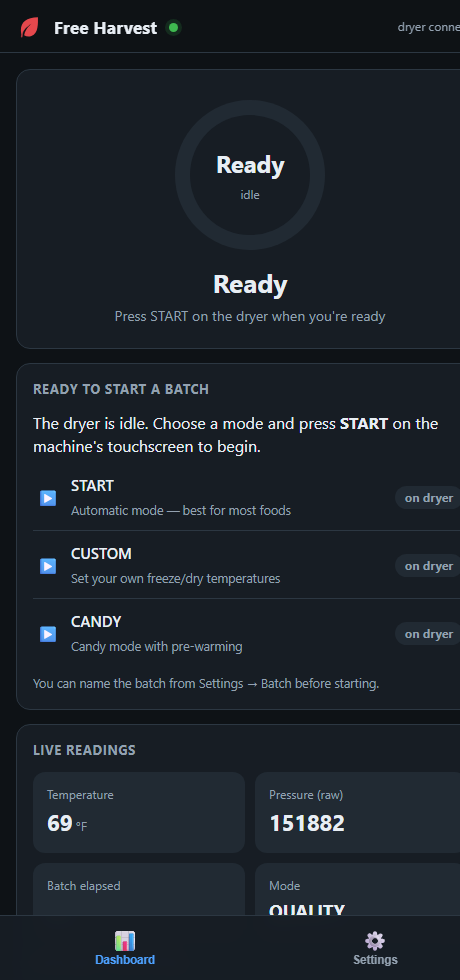
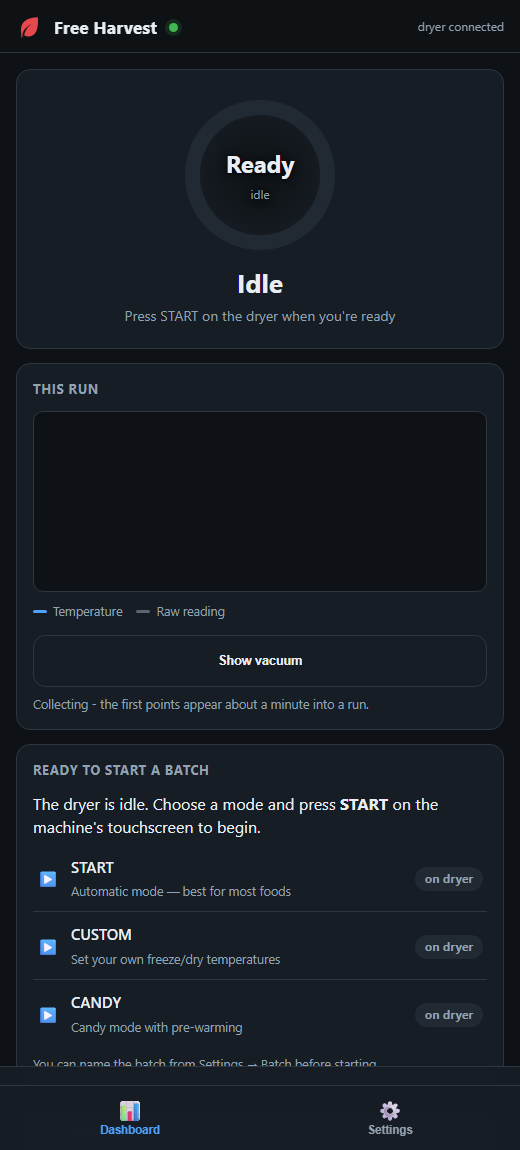
Regenerate README screenshots for v0.3.4
The README was still showing the July 30 pre-redesign captures - no ring
artwork, no facts strip, no trend graph. A separate dash-*.png set had been
generated in August but never wired in, so it was dead weight.

Captured headlessly from the real index.html against synthetic state, so each
phase can be shown deterministically rather than waiting for a 22h cycle to
reach it.

The harness mirrors hr_trend.c's deadband and directional hysteresis rather than
plotting the underlying curve directly. That matters: drawing `smooth` as the
true exponential would have produced a flawless line that misrepresents what the
firmware does. The screenshots now show the real behaviour - raw flapping between
whole degrees, smoothed stepping - including the 2F granularity in the cold range
that the current deadband costs us.

- dashboard-running/idle/freezing/drying/finaldry: all show the trend graph
- settings-usb: the USB link diagnostics panel (new in this release)
- settings, settings-mqtt, settings-about: refreshed, About now reads v0.3.4
- Phase table changed from Idle/Preparing/Freezing/Drying to
  Idle/Freezing/Drying/Final dry, matching the cycle we have actually decoded
- settings-about is now referenced from the flash instructions, where "check the
  version actually changed" is the check that catches a missing
  ota_data_initial.bin
- Troubleshooting now leads with the USB panel, since "dryer not seen" is the
  question it exists to answer
[…]

diff --git a/README.md b/README.md
@@ -117,6 +117,11 @@ Replace `COM7` with your port (`/dev/ttyUSB0` on Linux, `/dev/cu.usbserial-*` on
 > **Settings → About** after flashing: if the version isn't the one you
 > installed, that's what happened.
 
+<p align="center">
+  <img src="docs/img/settings-about.png" width="330"
+       alt="About screen showing the installed version">
+</p>
+
 ### Option B — build it yourself
 
 See [Building from source](#building-from-source).
@@ -169,10 +174,10 @@ green and readings appear.
 Browse to the adapter's address from any device on your network. The dashboard shows
 whatever the dryer is doing right now.
 
-| Idle | Preparing | Freezing | Drying |
+| Idle | Freezing | Drying | Final dry |
 |---|---|---|---|
-| ![Idle](docs/img/dashboard-idle.png) | ![Preparing](docs/img/dashboard-preparing.png) | ![Freezing](docs/img/dashboard-freezing.png) | ![Drying](docs/img/dashboard-drying.png) |
-| Press **START** on the machine | 15-min pre-cool, load your trays | % frozen + estimated time to 100% | Live vacuum in microns, phase timer |
+| ![Idle](docs/img/dashboard-idle.png) | ![Freezing](docs/img/dashboard-freezing.png) | ![Drying](docs/img/dashboard-drying.png) | ![Final dry](docs/img/dashboard-finaldry.png) |
+| Press **START** on the machine | % frozen + estimated time to 100% | Live vacuum in microns, phase timer | The long stage — 12h+ is normal, vacuum at its deepest |
 
 The **phase card** below the dial always tells you what's happening and what comes
 next, quoting the owner's manual — including the drain-valve steps that are easy to
@@ -274,7 +279,15 @@ problem.
 
 ## Troubleshooting
 
-**Start here: Settings → Debug & advanced → Device log.** The adapter's internal log is
+<img src="docs/img/settings-usb.png" width="330" align="right" alt="USB link diagnostics">
+
+**If the dryer is not being seen, start here: Settings → Debug & advanced → USB link
+to dryer.** It reports USB-level counters measured *before* any protocol decoding,
+and states which fault this actually is — never enumerated, enumerated but silent,
+or bytes arriving that we fail to parse. Those three look identical on the
+dashboard and have completely different causes.
+
+**For anything else, the Device log** is the place to look — the adapter's internal log is
 visible in the browser and names the actual error.
 
 | Symptom | Cause / fix |
